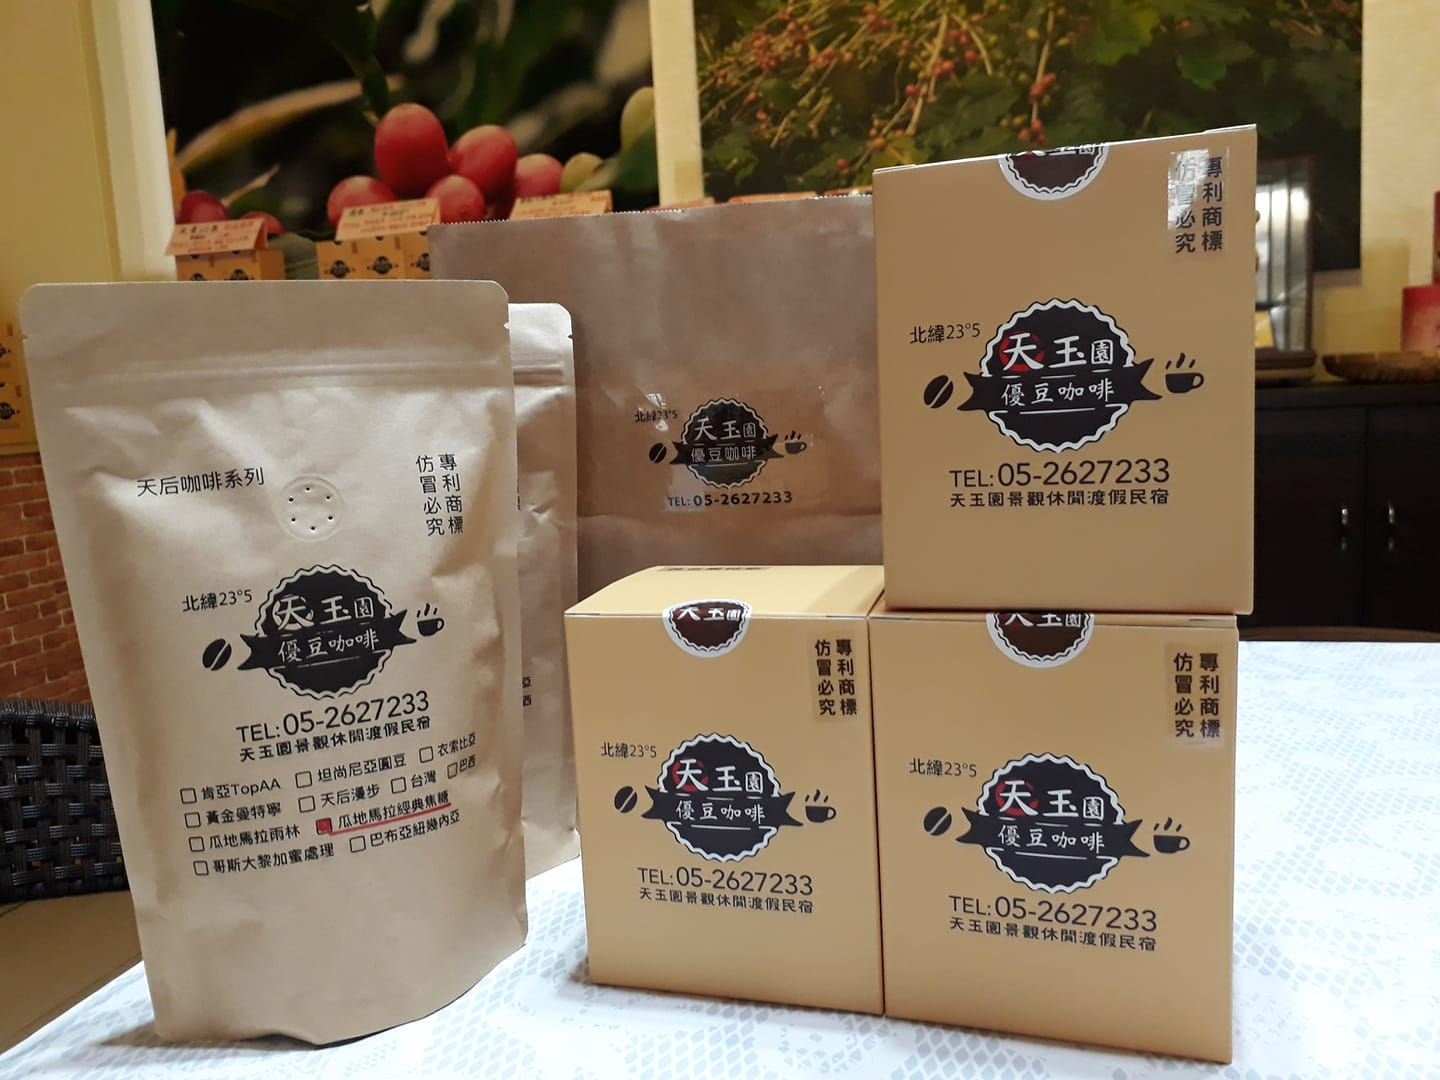
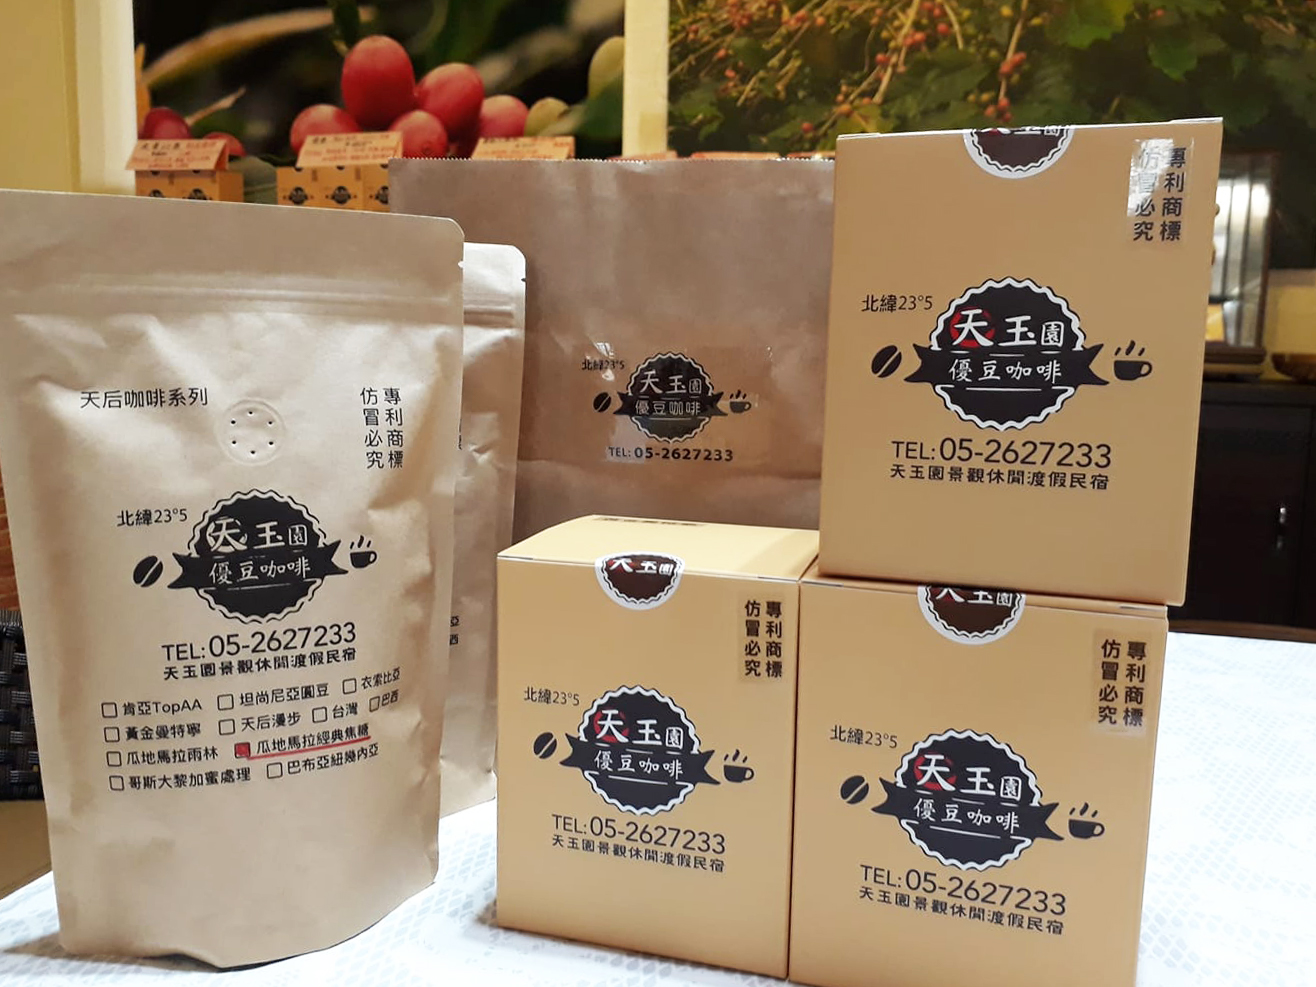
更換調亮過照片、footer民宿圖&顏色；增加價目表按鈕

diff --git a/resources/views/index.blade.php b/resources/views/index.blade.php
@@ -339,7 +339,7 @@
                     <div class="h-full w-full border border-yellow-900 lg:-mr-12 lg:-mb-12 -mr-4 -mb-4"></div>
                 </div>
                 <div class="h-full w-full absolute flex justify-center items-center lg:px-20 px-8">
-                    <div class="h-full w-full bg-cover bg-center shadow" style="background-image: url('/img/bg3.jpg')">
+                    <div class="h-full w-full bg-cover bg-center shadow" style="background-image: url('/img/about/bg4.jpg')">
                     </div>
                 </div>
             </div>
@@ -348,7 +348,7 @@
             <div
                 class=" container m-auto flex lg:flex-none flex-wrap justify-center lg:grid lg:grid-cols-3 lg:grid-rows-2 lg:gap-3 px-4">
                 <div class="lg:col-span-1 w-full lg:w-auto">
-                    <img src="/img/bg2.jpg" alt="" class="">
+                    <img src="/img/about/bg2.jpg" alt="" class="">
                 </div>
                 <div class="w-full lg:w-auto lg:col-span-2 bg-opacity-90 bg-white p-8 mb-2 lg:mb-0">
                     <p class=" text-xl text-gray-600 font-semibold px-2 border-l border-gray-400 mb-4">
@@ -396,7 +396,7 @@
                     </button>
                 </div>
                 <div class="w-full lg:w-auto bg-cover bg-bottom h-32 lg:h-auto mt-2 lg:mt-0"
-                    style="background-image: url('/img/bg3.jpg')">
+                    style="background-image: url('/img/about/bg4.jpg')">
                     <button type="button" class="w-full h-full block">
                         <div
                             class="h-full w-full bg-gray-900 bg-opacity-80 justify-center items-center flex opacity-0 hover:opacity-100 transition duration-500 ease-in-out">
@@ -514,9 +514,12 @@
         <div class="lg:pb-20 pb-10" id="rooms">
             <div class="container m-auto h-full relative">
                 <div class="lg:py-8 px-2 lg:px-8 text-gray-600 relative" style="z-index: 10">
-                    <p class=" text-xl text-gray-600 font-semibold mb-4  lg:mb-8 lg:text-center">
+                    <p class=" text-xl text-gray-600 font-semibold  lg:text-center">
                         <span class="border-r border-gray-400 mr-2"></span>
                         客房介紹<span class="text-lg text-gray-500 font-normal">-愜意休憩</span>
+                    </p>
+                    <p class="text-right p-2">
+                        <a href="/img/price.jpg" class="p-2 bg-gray-500 rounded text-white" data-lightbox="price" data-title="價目清單">價目表</a>
                     </p>
                     <div class="w-full relative">
                         <div class="w-full grid grid-cols-1 grid-rows-4 lg:grid-rows-1 lg:grid-cols-4 gap-4">
@@ -559,7 +562,7 @@
                                         <p class="">附早餐</p>
                                     </div>
                                 </div>
-                                <p class=" text-right p-4 text-gray-600 font-medium">定價:</p>
+                                <p class=" text-right p-4 text-gray-600 font-medium"></p>
 
                             </div>
                             <div class="p-3  bg-white rounded shadow">
@@ -596,7 +599,7 @@
                                         <p class="">附早餐</p>
                                     </div>
                                 </div>
-                                <p class=" text-right p-4 text-gray-600 font-medium">定價:</p>
+                                <p class=" text-right p-4 text-gray-600 font-medium"></p>
                             </div>
                             <div class="p-3 bg-white rounded shadow">
                                 <div class=" relative">
@@ -631,7 +634,7 @@
                                         <p class="">附早餐</p>
                                     </div>
                                 </div>
-                                <p class=" text-right p-4 text-gray-600 font-medium">定價:</p>
+                                <p class=" text-right p-4 text-gray-600 font-medium"></p>
                             </div>
                             <div class="p-3 bg-white rounded shadow">
                                 <div class=" relative">
@@ -669,11 +672,12 @@
                                         <p class="">附早餐</p>
                                     </div>
                                 </div>
-                                <p class=" text-right p-4 text-gray-600 font-medium">定價:</p>
+                                <p class=" text-right p-4 text-gray-600 font-medium"></p>
                             </div>
                         </div>
                     </div>
-                    <div class="h-4 lg:h-10"></div>
+                    <div class="h-4 lg:h-10">
+                    </div>
                     <p class=" text-xl text-gray-600 font-semibold  mb-2 text-center" id="book">
                         <span class="border-r border-gray-400 mr-2"></span>
                         訂房須知<span class="text-lg text-gray-500 font-normal">-客戶權益</span>
@@ -729,7 +733,7 @@
                 </div>
             </div>
         </div>
-        <div class="bg-gray-200 bg-opacity-90">
+        <div class="bg-yellow-900 bg-opacity-20">
             <div class=" container m-auto p-8">
                 <div class="w-full h-full flex gap-8 justify-center flex-wrap">
                     <div class="text-lg text-gray-600 font-semibold w-full lg:w-auto">
@@ -741,7 +745,7 @@
                         <p class=""><i class="fas fa-home"></i> 嘉義縣合法民宿280號</p>
                     </div>
                     <div class="w-full lg:w-40 hidden lg:block">
-                        <img src="/img/about/homestay.jpg" alt="">
+                        <img src="/img/about/homestay-2.jpg" alt="">
                     </div>
                     <div class="w-full lg:w-auto block">
                         <iframe
